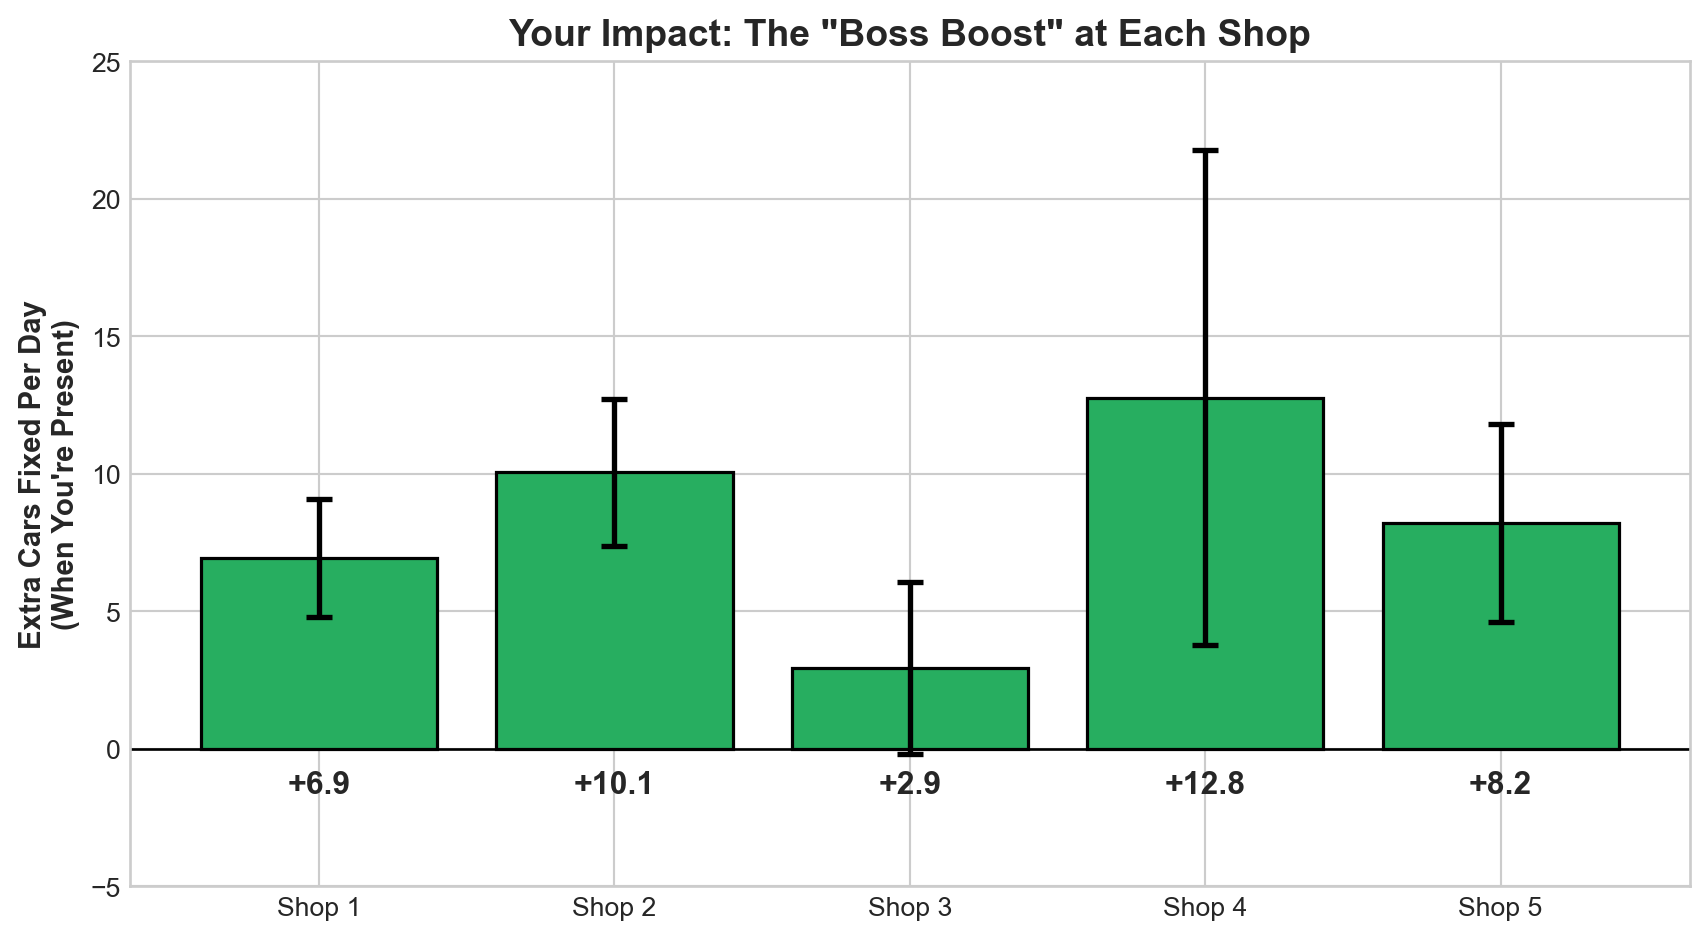
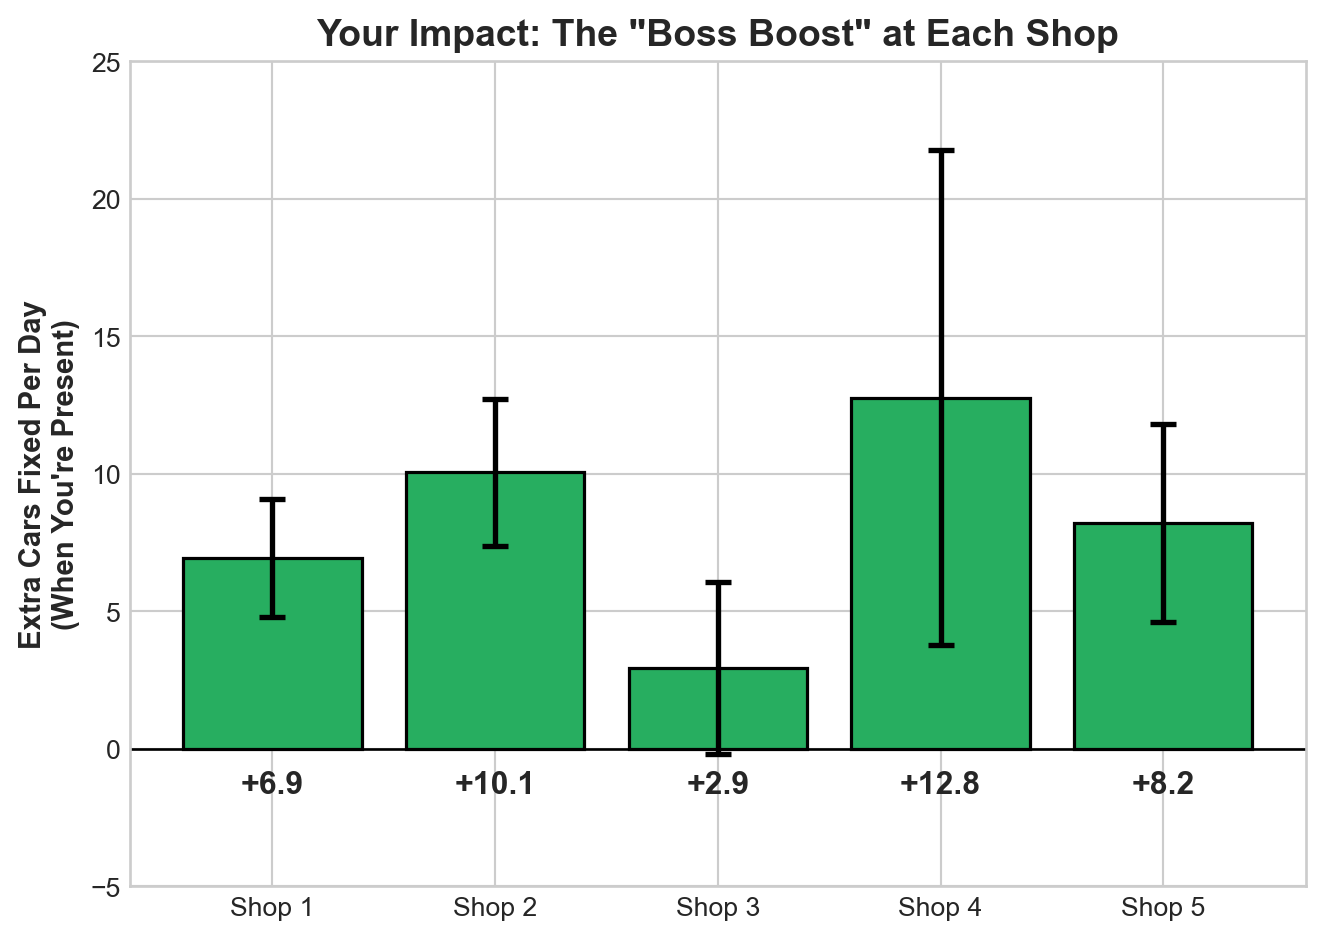
Update index files and figure

diff --git a/index.html b/index.html
@@ -105,7 +105,7 @@ ul.task-list li input[type="checkbox"] {
 <section id="what-the-data-shows" class="level2">
 <h2 class="anchored" data-anchor-id="what-the-data-shows">What the Data Shows</h2>
 <p>We analyzed 250 days of productivity data across your 5 shops. Here’s every single day plotted—you can see the pattern clearly:</p>
-<div id="b9c26e7f" class="cell" data-fig-height="10" data-fig-width="6" data-execution_count="2">
+<div id="d170075e" class="cell" data-fig-height="10" data-fig-width="6" data-execution_count="2">
 <div class="cell-output cell-output-display">
 <div class="quarto-figure quarto-figure-center">
 <figure class="figure">
@@ -121,7 +121,7 @@ ul.task-list li input[type="checkbox"] {
 <section id="distribution-comparison-violin-plot" class="level2">
 <h2 class="anchored" data-anchor-id="distribution-comparison-violin-plot">Distribution Comparison: Violin Plot</h2>
 <p>This violin plot reveals the full shape of productivity distributions—not just averages, but how spread out and consistent each shop performs:</p>
-<div id="d4cf1472" class="cell" data-fig-height="6" data-fig-width="8" data-execution_count="3">
+<div id="f483ca3e" class="cell" data-fig-height="6" data-fig-width="8" data-execution_count="3">
 <div class="cell-output cell-output-display">
 <div class="quarto-figure quarto-figure-center">
 <figure class="figure">
@@ -137,7 +137,7 @@ ul.task-list li input[type="checkbox"] {
 <section id="split-violin-plot-direct-comparison-by-shop" class="level2">
 <h2 class="anchored" data-anchor-id="split-violin-plot-direct-comparison-by-shop">Split Violin Plot: Direct Comparison by Shop</h2>
 <p>This split violin plot shows the productivity distribution for each shop with boss presence on opposite sides—making it easy to compare the “shape” of performance directly:</p>
-<div id="1198358d" class="cell" data-fig-height="8" data-fig-width="8" data-execution_count="4">
+<div id="b9e42f08" class="cell" data-fig-height="8" data-fig-width="8" data-execution_count="4">
 <div class="cell-output cell-output-display">
 <div class="quarto-figure quarto-figure-center">
 <figure class="figure">
@@ -153,7 +153,7 @@ ul.task-list li input[type="checkbox"] {
 <section id="d-view-shop-performance-landscape" class="level2">
 <h2 class="anchored" data-anchor-id="d-view-shop-performance-landscape">3D View: Shop Performance Landscape</h2>
 <p>Here’s an interactive 3D perspective showing all three dimensions at once—Shop ID, your presence status, and cars fixed:</p>
-<div id="97e4c7a9" class="cell" data-fig-height="8" data-fig-width="10" data-execution_count="5">
+<div id="63a30610" class="cell" data-fig-height="8" data-fig-width="10" data-execution_count="5">
 <div class="cell-output cell-output-display">
 <div class="quarto-figure quarto-figure-center">
 <figure class="figure">
@@ -169,11 +169,11 @@ ul.task-list li input[type="checkbox"] {
 <section id="the-boss-boost-effect" class="level2">
 <h2 class="anchored" data-anchor-id="the-boss-boost-effect">The “Boss Boost” Effect</h2>
 <p>Here’s the real question: <strong>How many extra cars get fixed when you’re at each shop?</strong></p>
-<div id="36da5079" class="cell" data-fig-height="5" data-fig-width="7" data-execution_count="6">
+<div id="72680542" class="cell" data-fig-height="5" data-fig-width="7" data-execution_count="6">
 <div class="cell-output cell-output-display">
 <div class="quarto-figure quarto-figure-center">
 <figure class="figure">
-<p><img src="index_files/figure-html/cell-7-output-1.png" width="854" height="470" class="figure-img"></p>
+<p><img src="index_files/figure-html/cell-7-output-1.png" width="662" height="470" class="figure-img"></p>
 <figcaption>The ‘Boss Boost’—extra cars fixed when you’re present vs.&nbsp;away</figcaption>
 </figure>
 </div>
@@ -226,7 +226,7 @@ ul.task-list li input[type="checkbox"] {
 <section id="how-confident-can-you-be" class="level2">
 <h2 class="anchored" data-anchor-id="how-confident-can-you-be">How Confident Can You Be?</h2>
 <p><strong>The honest truth:</strong> We only have 250 days of data, and you weren’t at every shop equally. Here’s what that means:</p>
-<div id="d4d491e0" class="cell" data-fig-height="6" data-fig-width="6" data-execution_count="7">
+<div id="d916c6a6" class="cell" data-fig-height="6" data-fig-width="6" data-execution_count="7">
 <div class="cell-output cell-output-display">
 <div class="quarto-figure quarto-figure-center">
 <figure class="figure">
@@ -253,7 +253,7 @@ ul.task-list li input[type="checkbox"] {
 <section id="the-money-question" class="level2">
 <h2 class="anchored" data-anchor-id="the-money-question">The Money Question 💰</h2>
 <p>Let’s say each car fixed earns you <strong>$200 in profit</strong>. Here’s what different scheduling strategies could mean for your wallet:</p>
-<div id="a7c472e7" class="cell" data-fig-height="7" data-fig-width="9" data-execution_count="8">
+<div id="cad985af" class="cell" data-fig-height="7" data-fig-width="9" data-execution_count="8">
 <div class="cell-output cell-output-display">
 <div class="quarto-figure quarto-figure-center">
 <figure class="figure">
@@ -266,7 +266,7 @@ ul.task-list li input[type="checkbox"] {
 <section id="long-term-profit-projection" class="level3">
 <h3 class="anchored" data-anchor-id="long-term-profit-projection">Long-Term Profit Projection 📈</h3>
 <p>What do these strategies look like over a full year? Here’s how your profits compound:</p>
-<div id="fe8ec350" class="cell" data-fig-height="5" data-fig-width="7" data-execution_count="9">
+<div id="096ceada" class="cell" data-fig-height="5" data-fig-width="7" data-execution_count="9">
 <div class="cell-output cell-output-display">
 <div class="quarto-figure quarto-figure-center">
 <figure class="figure">
@@ -390,7 +390,7 @@ ul.task-list li input[type="checkbox"] {
 </section>
 <section id="one-final-chart-boss-presence-delta-by-shop" class="level3">
 <h3 class="anchored" data-anchor-id="one-final-chart-boss-presence-delta-by-shop">One Final Chart: Boss Presence Delta by Shop</h3>
-<div id="5dc626b1" class="cell" data-fig-height="16" data-fig-width="6" data-execution_count="10">
+<div id="11d36460" class="cell" data-fig-height="16" data-fig-width="6" data-execution_count="10">
 <div class="cell-output cell-output-display">
 <div class="quarto-figure quarto-figure-center">
 <figure class="figure">
